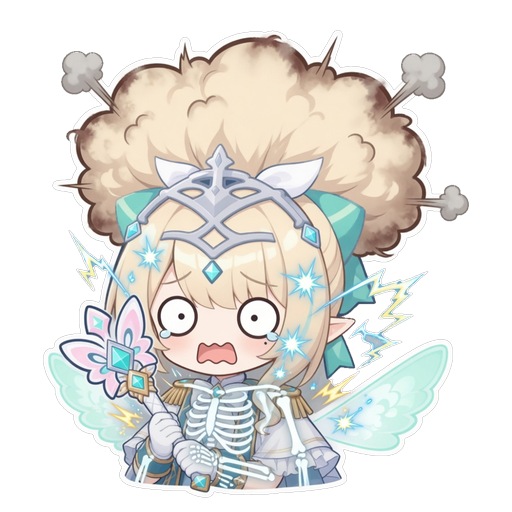
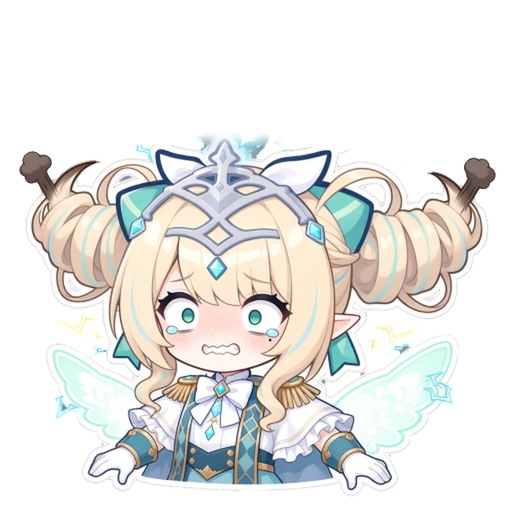
Add spicy / on-fire faces, redraw the shock sprite, stop squashing plugin sprites
- New faces spicy (mouth on fire) and fire (bursts into flames). Spicy food now
  shows the mouth fire first and goes back to the yuck face after the gulp of
  water; spicy again within 90 s (SPICY_AGAIN) sets her on fire. Both fall back
  to the yuck face without art; the codex grows to 33 cells.
- pet.fit_sprite(pm): plugin sprites (vomit, the electric gum shock) were full
  512x512 images stretched to the cropped 484x368 frame, so they showed up
  squashed to ~70% height. They are now cropped to the shared box first.
- dlc/interactions/shocked.png redrawn (Grok v17, extra flying tiara and smoke
  removed) with an updated prompt in PROMPTS_shock.md.

Claude-Session: https://claude.ai/code/session_01Jzc6FuEEpiHSeSBqZ5Z8rB

diff --git a/main.py b/main.py
@@ -48,7 +48,10 @@ PEEK_EXTRA = {"peek_happy": "peek_awake", "peek_surprised": "peek_awake"}
 FACES = {"pout": "shy", "smug": "content", "hungry": "idle", "queasy": "dizzy",
          "sulk": "angry", "held": "surprised", "yuck": "angry", "wet": "angry",
          "cold": "pout",              # cold 只给插件用(expr), 没图时借委屈那张
-         "frozen": "wet"}            # frozen 暴雪浇水冻住; 没图时借湿漉漉(再借 angry)
+         "frozen": "wet",            # frozen 暴雪浇水冻住; 没图时借湿漉漉(再借 angry)
+         "spicy": "yuck",            # 辣到喷火; 没图时借皱脸
+         "fire": "spicy"}            # 整个人燃起来(刚吃完辣的又来一口; 插件: 火炉烫到等); 没图时借喷火那张
+SPICY_AGAIN = 90.0              # 吃完辣的这么多秒内又吃辣的 -> 不是喷火, 是整个人燃起来
 HUNGRY_FACE = 25                # 饱腹低于这个, 站着发呆时换成「饿了」那张
 FEED_REACTIONS = ("fav", "like", "ok", "dislike", "weird")     # 插件接管吃的反应时, feed 事件里能记成的档
 
@@ -270,6 +273,10 @@ def _resolve_fallbacks(frames, table):
                 frames[s] = frames[fb]
 
 
+SPRITE_BOX = None               # 所有立绘共用的裁剪框(load_frames 算出来); 插件自带的整张立绘用 pet.fit_sprite() 按它裁
+SPRITE_SIZE = None
+
+
 def load_frames():
     """返回 (frames, real): real = 真正有图(非回退)的状态集合"""
     imgs = {}
@@ -289,6 +296,8 @@ def load_frames():
     for img in imgs.values():
         r = alpha_bbox(img)
         box = r if box is None else box.united(r)
+    global SPRITE_BOX, SPRITE_SIZE
+    SPRITE_BOX, SPRITE_SIZE = QRect(box), imgs["idle"].size()
     frames = {s: QPixmap.fromImage(img.copy(box)) for s, img in imgs.items()}
     real = set(frames)
     _resolve_fallbacks(frames, {**EXTRA_STATES, **FACES})
@@ -618,6 +627,7 @@ class PetWindow(QWidget):
         # 被丢 / 闹别扭 / 转圈
         self._throws = deque(maxlen=12)
         self._feeds = deque(maxlen=16); self._dislikes = deque(maxlen=8); self._extra_stomach_until = 0.0
+        self._spicy_at = -1e9          # 上次吃辣的(monotonic): SPICY_AGAIN 秒内再吃 -> 燃起来
         self._throw = None              # 正在飞的这一丢: dict(speed, hard, level, bonks, t_bonk)
         self._sulk_until = 0.0; self._sulk_calm = 0; self._sulk_click_t = 0.0; self._sulk_fx = 0.0; self._sulk_poke_say = 0.0
         self._spin_meter = 0.0; self._spin_stage = 0; self._spin_t = now
@@ -740,6 +750,13 @@ class PetWindow(QWidget):
     def codex(self):
         """图鉴里列哪几格: 原来的都列; 只换脸的表情(FACES)要 assets 里真有图才列"""
         return [e for e in C.CODEX if e[0] not in FACES or e[0] in self.real_frames]
+
+    def fit_sprite(self, pm):
+        """插件自带的整张立绘(和 assets 里的一样大、同一套构图, 如 512×512) -> 按所有立绘共用的裁剪框裁好。
+        裁好再缩放到当前立绘的大小才不会被压扁; 尺寸不一样的图原样返回"""
+        if SPRITE_BOX is None or pm is None or pm.isNull() or pm.size() != SPRITE_SIZE:
+            return pm
+        return pm.copy(SPRITE_BOX)
 
     # ----- 菜单 / 面板 -----
     def _build_tray_menu(self):
@@ -1332,14 +1349,16 @@ class PetWindow(QWidget):
             self.burst("note", 1)
             self.say(self.pick_line(f["lines"] if random.random() < 0.75 else C.FOOD_OK_TEXTS), force=True)
             self.gain(2, "feed", quiet=True)
-        elif trait == "spicy":                              # 辣!
-            self.set_state("angry", 2.8, expr="yuck")
-            self.burst("steam", 9, at=hp + QPointF(0, -10), bias=(0, 0))
-            self.burst("emoji", 3, at=m, text="🔥")
+        elif trait == "spicy":                              # 辣! 刚吃过辣的又来一口 -> 整个人燃起来
+            again = now - self._spicy_at < SPICY_AGAIN
+            self._spicy_at = now
+            self.set_state("angry", 2.8, expr="fire" if again else "spicy")
+            self.burst("steam", 12 if again else 9, at=hp + QPointF(0, -10), bias=(0, 0))
+            self.burst("emoji", 5 if again else 3, at=m, text="🔥")
             self.burst("sweat", 4)
             self.sfx.play("huh")
-            self.say(self.pick_line(f["lines"]), force=True, tone="alert")
-            QTimer.singleShot(1900, lambda: (self.burst("drop", 3), self.burst("emoji", 1, text="💧"),
+            self.say(self.pick_line(C.FOOD_SPICY_AGAIN_TEXTS if again else f["lines"]), force=True, tone="alert")
+            QTimer.singleShot(1900, lambda: (self._spicy_cooled(), self.burst("drop", 3), self.burst("emoji", 1, text="💧"),
                                              self.say(self.pick_line(C.FOOD_SPICY_WATER_TEXTS), force=True,
                                                       tone="alert")))
             QTimer.singleShot(4400, lambda: self._food_say(C.FOOD_SPICY_AFTER_TEXTS))
@@ -1384,6 +1403,12 @@ class PetWindow(QWidget):
         if hearts:
             self.burst("heart", hearts)
         self.say(self.pick_line(pool), force=True, duration=3.4, tone=tone)
+
+    def _spicy_cooled(self):
+        """吃辣 1.9 秒后灌了口水: 火下去了, 喷火 / 燃起来的脸换回皱脸(这段反应已经被别的打断就不管)"""
+        if self.state == "angry" and self._expr_state == "angry" and self._expr in ("spicy", "fire"):
+            self._expr = "yuck"
+            self.update()
 
     def _note_dislike(self, now, quiet_until=3.0):
         """短时间内连喂讨厌的: 第 2 次扣一点好感并警告, 第 3 次闹别扭"""

diff --git a/food_fx.py b/food_fx.py
@@ -472,7 +472,8 @@ def _step_shock(self, t, dt):
 
 class _ShockFlash:
     """shock 期间临时挂到 pet._ix 的画图钩子: 专用立绘(有图时) + 白/黄闪烁 + 水平抖。
-    立绘: <桌宠目录>/dlc/interactions/shocked.png, 备用 dlc/foods/sprites/shocked.png (512x512, 与其他立绘对齐); 每次触发重新检查, 缺图用当前脸。"""
+    立绘: <桌宠目录>/dlc/interactions/shocked.png, 备用 dlc/foods/sprites/shocked.png (512x512, 与其他立绘对齐, 内容别超出共用裁剪框);
+    每次触发重新检查, 缺图用当前脸。"""
     def __init__(self, fx):
         self.fx = fx
         self._cache = {}
@@ -484,7 +485,7 @@ class _ShockFlash:
                 if f.is_file():
                     pm = QPixmap(str(f))
                     if not pm.isNull():
-                        self._img = pm
+                        self._img = fx.pet.fit_sprite(pm)     # 先按立绘共用的框裁, 不然缩放时会被压扁
                         break
         except Exception:
             self._img = None

diff --git a/dlc/interactions/vomit.py b/dlc/interactions/vomit.py
@@ -42,7 +42,8 @@ class VomitFx:
         for n in ("vomit_pre", "vomit"):
             f = HERE / (n + ".png")
             pm = QPixmap(str(f)) if f.is_file() else QPixmap()
-            self._img[n] = None if pm.isNull() else pm
+            fit = getattr(self.pet, "fit_sprite", None)               # 先按立绘共用的框裁(旧本体没有就照旧), 不然缩放时会被压扁
+            self._img[n] = None if pm.isNull() else (fit(pm) if fit else pm)
 
     def _sized(self, name, ref):
         src = self._img.get(name)

diff --git a/dlc/interactions/PROMPTS_shock.md b/dlc/interactions/PROMPTS_shock.md
@@ -1,20 +1,26 @@
-# 被电击口香糖电到 立绘提示词（2026-10-14）
+# 被电击口香糖电到 立绘提示词（2026-11-02 重画）
 
-这是提示词，不是成品图，用用户自己的图像工具出图。
-- 原图放 `dlc/interactions/raw/shocked_raw.png`，成品是 `dlc/interactions/shocked.png`。和 vomit 那两张放在一起，因为都是角色的互动立绘，不是食物图标。
-- 规格和 vomit 一样：512×512 RGBA 透明背景，半身像，底边 y≈498，高度约 363px（70%），白色贴纸粗描边 7–9px。
-- 出图用图生图：上传 `assets/dizzy.png` 当参考图（能同时传角色参考的话加上 `assets/idle.png`），重绘强度 0.5–0.65。这张姿势和发型变化比较大，所以强度比 vomit 那两张略高一点。
+这是提示词，不是成品图，用 Grok 出图。
+- 成品是 `dlc/interactions/shocked.png`（和 vomit 那两张放在一起，都是角色的互动立绘，不是食物图标）。电到期间 `food_fx` 用它，外加白 / 黄闪烁和左右抖。
+- 规格和 `assets` 里的立绘一样：512×512 RGBA 透明背景，半身像，底边 y≈497，内容不能超出共用裁剪框 (14,130)–(498,498)。
+  程序会先按这个框裁（`pet.fit_sprite`），再缩放到当前立绘大小；框外的部分直接看不见。
+- 用法和 `docs/PROMPTS_faces.md` 一样：上传参考图 `ref_surprised.png`，先贴那边的「通用前缀」，再接下面的正文。
 
-## 通用前缀
-chibi sticker illustration of the same girl as the reference image, bust shot cropped at the chest, blonde hair with teal streaks, silver tiara with teal forehead gem, two teal ribbon bows and white hairband, pointed elf ears, small tear mole under left eye, white ruffled capelet, gold epaulettes, small mint translucent fairy wings, thick white sticker outline around the whole figure, clean anime cel shading, soft pastel colours, transparent background, nothing on the ground, no text, no watermark
+## 第一版为什么重画（2026-10-14 那张）
+- 头发炸成一大团爆炸头，盖住了蝴蝶结和两边的螺旋卷，人也被挤小了一圈，认不太出是她。
+- X 光骨架占了整个身子，眼睛只剩白眼。闪烁和抖动程序本来就有，图里不用再画。
+- 另外以前程序把整张 512×512 拉伸到裁好的立绘尺寸（484×368），竖着被压到七成，看起来是扁的。已经改成先裁再缩放。
 
-## shocked.png 正文
-comedic cartoon electric shock reaction, her twin drill-curl blonde hair frizzed out and standing straight up and puffed out like a cartoon static explosion, a few slightly singed darker tips with small puffs of grey smoke, eyes wide round and blank white, tiny pupils, mouth open in a stiff zigzag shape, body rigid and stiff, a faint cute cartoon x-ray skeleton outline flashing through her silhouette, small blue and yellow electric sparks and zigzag lightning crackling close around her, funny and cute not scary
+## 正文
+she has just been zapped by an electric shock and is frozen stiff mid-zap: her twin drill curls and bangs frizzed and puffed out with static, a few strands sticking straight out sideways, but the drill-curl shape is still clearly recognisable and no hair rises higher than the top of her ribbon bows; a few hair tips slightly singed darker with two or three tiny puffs of grey smoke; teal eyes wide open with tiny shrunken pupils and a small tear at each corner; teeth clenched in a stiff wavy zigzag grimace; shoulders hunched up and both arms locked rigid, gloved fingers splayed stiff; her tiara knocked slightly crooked with a tiny spark jumping off the forehead gem; small bright blue and yellow zigzag sparks crackling close around her outline. Funny and cute, not hurt. No skeleton, no x-ray, no glowing aura, no blank white eyes.
 
-## 反向提示词
-scary, horror, realistic skeleton, skull close-up, burns, injury, blood, gore, dark creepy, photorealistic, extra characters, full body, legs, text, watermark, background scenery, ground, floor
-
-## 备注
-- 骨骼透视只要一层淡淡的卡通线条，如果出图太像真骨头，就把 "x-ray skeleton" 那一句删掉重出。
-- 头冠和蝴蝶结在炸开的头发里也要保留，这是认出她最关键的地方。
-- 建议出 3–4 张，挑头冠最完整的那一张。
+## 出图结果（2026-11-02）
+- 出了四版（17–20），用的是第 17 版。
+- 「头冠歪了」这句 Grok 会画成两个头冠：一个戴着，另一个飞出去（17、19）或者叠在一起（20）。以后重出时把这句换成
+  `her tiara still sitting on her head, a tiny spark jumping off the forehead gem`。
+- 第 18 版有四只手（两只握着法杖，下面还张着两只），第 20 版也多了手。可以在末尾加一句 `exactly two arms and two hands, not holding the wand`。
+- 第 17 版 Grok 保留了 2 倍构图，原样缩一半，再左移 4px（右边那撮焦毛超出了 498）。接着做了三件事：
+  - 灰烟是独立的小块，删掉。
+  - 头顶上沿（y≈143，蝴蝶结的白描边）以上全删，飞走的那个头冠和两边的火花都在上面。头冠右腿挨着蝴蝶结，那一段删到 y=148。
+  - 头冠尖上的火花留着，在 130–150 之间渐隐。
+- 抠图用的是灰底漫水，螺旋卷圈里那几块灰底没有白描边围着，单独按「颜色是平的灰」挖掉。

diff --git a/docs/接口规范.md b/docs/接口规范.md
@@ -66,6 +66,7 @@
 | `sulking()` / `focusing()` / `sneaking()` / `isVisible()` | 闹别扭 / 专注计时中 / 偷吃中 / 看得见 |
 | `activities()` / `can_auto(what)` | 见第 3、4 节 |
 | `char_w` `char_h` `pad_x` | 立绘尺寸、左右留白(像素) |
+| `fit_sprite(pm)` | 插件自带的整张立绘(和 `assets` 里一样 512×512、同一套构图)按所有立绘共用的裁剪框裁好，返回新的 `QPixmap`；之后再缩放到当前立绘大小才不会被压扁。尺寸不一样的图原样返回。`vomit` 和电击口香糖的立绘都用它 |
 | `head_point()` `mouth_point()` `foot_point()` `anchor_point()` | 屏幕坐标，放粒子/气泡用 |
 | `screen_rect()` | 她所在屏幕的可用区域(扣掉任务栏) |
 | `mood` | 心情(第 2.4 节)：`value`(-100..100) `key`(`great good ok low bad`) `name` `emoji` `frac()` |
@@ -147,17 +148,20 @@
 | `pout` 委屈 | shy | 猜拳输给你(状态还是 angry)、追蝴蝶扑空、心愿没等到 |
 | `smug` 偷笑 | content | 偷吃得手 |
 | `hungry` 饿了 | idle | 饱腹低于 25 时站着发呆(`HUNGRY_FACE`)；张望、专注、散步优先 |
-| `yuck` 皱脸 | angry | 辣的、苦的、蔬菜(状态是 shy)，推开不爱吃的 |
+| `yuck` 皱脸 | angry | 辣的(喷火之后灌了口水)、苦的、蔬菜(状态是 shy)，推开不爱吃的 |
 | `queasy` 难受 | dizzy | 吃了黑暗料理(转吐有插件 `vomit` 自己的立绘) |
 | `sulk` 赌气 | angry | 闹别扭期间的生气 |
 | `held` 被拎起 | surprised | 被拖着、被丢在半空 |
 | `wet` 湿漉漉 | angry | 被浇水后生气、强行浇水、超级生气(插件 `water` 换) |
 | `cold` 好冷 | (借 `pout` 委屈那张) | 只给插件用(`expr()` 换)，比如天气插件的暴雪；本体自己不用 |
+| `frozen` 冻住 | (借 `wet` 湿漉漉那张) | 只给插件用，比如天气插件里暴雪被浇水冻住；本体自己不用 |
+| `spicy` 喷火 | (借 `yuck` 皱脸那张) | 吃辣的(状态是 angry)，1.9 秒后灌了口水就换回皱脸 |
+| `fire` 燃起来 | (借 `spicy` 喷火那张) | 吃完辣的 90 秒内(`SPICY_AGAIN`)又吃辣的，同样 1.9 秒后换回皱脸；插件也能用(火炉烫到、冻住时吃辣的) |
 
 一帧画哪张，按这个顺序定(`stand_key()`)：`set_state(..., expr=)` 指定的(只在那个状态里有效) → 本体按状态判断(上表的 hungry / sulk / held，以及原来的张望、专注) → 插件 `expr()` 最后还能换。
 插件给的名字没有对应的图(连回退都没有)就忽略。探头时不换脸。
 
-- 图鉴：原来那 21 格照旧都列；`FACES` 里的脸要 `assets` 里真有图才列，画到时解锁。格子多了自动压矮一点(5 行能放 30 格)。
+- 图鉴：原来那 21 格照旧都列；`FACES` 里的脸要 `assets` 里真有图才列，画到时解锁。格子多了自动压矮一点，超过 30 格换成 7 列(5 行最多 35 格，现在 33 格)。
 - 外部 DLC 的 `say` 也能要 `pout` / `smug`(`LIVE_SAY_FACES`)，同样要真有图。
 
 ## 3. 活动(`activities()`)
@@ -333,6 +337,15 @@
   生气 / 吃东西 / 幸福 / 害羞(按表情) → 散步 → 饿了 → 看蝴蝶 → 按好感那句。台词表在 `content.py` 的 `STATUS_*`。
 - 新钩子 `state_text()`；`water` 和 `vomit` 实现了它。
 - 新可调参数 `sneak_done_lines` `sneak_caught_lines`；新事件 `sneak_done`。
+
+### 2026-11-02 喷火、燃起来，被电和吐彩虹的立绘不再被压扁
+
+- 新脸 `spicy`(喷火)、`fire`(燃起来)，见第 2.6 节。吃辣的原来借皱脸，现在先喷火，灌了口水再皱脸；刚吃完辣的又来一口就整个人燃起来(台词 `FOOD_SPICY_AGAIN_TEXTS`)。
+  图鉴多两格。私有 DLC 也用：天气(暴雪吃辣喷火；冻住时吃辣燃起来，冰一下子化了)、火炉(烫到)。
+- 新方法 `pet.fit_sprite(pm)`(第 2 节)。插件自带的整张立绘以前直接拉伸到裁好的立绘尺寸(484×368)，竖着被压到七成左右，
+  电击口香糖(`food_fx`)和转吐(`vomit`)的立绘一直是扁的；现在先按共用框裁好再缩放。所以这类立绘的内容也不能超出共用框(14,130)–(498,498)。
+- `dlc/interactions/shocked.png` 重画(提示词见 `dlc/interactions/PROMPTS_shock.md`)：原来那张爆炸头盖住了蝴蝶结和螺旋卷、X 光骨架、白眼，人也小一圈。
+- `assets/spicy.png` `fire.png`：都在共用框里，不会把别的立绘挤小。
 
 ### 2026-11-02 聊天知道得更多
 

diff --git a/docs/PROMPTS_faces.md b/docs/PROMPTS_faces.md
@@ -67,3 +67,20 @@ she is freezing in a blizzard: shoulders hunched up, both gloved hands held toge
 she has just been soaked with water in a blizzard and frozen solid: a clear crystalline ice shell and frost coating her hair, face, capelet, gloves and wand, with a few sharp ice facets and tiny icicles hanging from her drill curls, tiara and ribbons; blonde hair a shade darker as if wet under the ice, water droplets turned into frozen beads; eyes wide open and a little teary, eyebrows raised then drooping, mouth a small aggrieved open "eh?!" pout, cheeks flushed pink from the cold; body stiff and slightly hunched as if mid-shiver locked in place, a few short freeze-crack motion lines and tiny ice crystal sparkles close around her (stay inside the sticker bounds). No scarf. Still a bust shot cropped flat at the bottom. Cute and pitiful, not scary, not covered so thick that the tiara, teal bows, tear mole or mint wings disappear.
 
 备注：头冠、青蝴蝶结、泪痣、薄荷翅在冰壳里也必须看得清。冰是透明/半透明晶体，不要整块不透明白冰把脸糊死。地上不要积水、不要雪堆、不要全画面暴风雪背景。建议出 3–4 版，挑冰壳薄、五官还能认、构图和 idle/wet 同框的那张；Grok 改图时原样缩一半对齐。
+
+## spicy.png 喷火（参考图 `ref_angry.png`）
+用在吃辣的时候（状态是 angry），1.9 秒后灌了口水就换回皱脸。暴雪天吃辣的（天气 DLC）也用这张。
+
+she has just eaten something extremely spicy and her mouth is on fire: whole face flushed bright red right up to the tips of her elf ears, eyes squeezed shut into > < shapes with big comic tears at the corners, mouth wide open with her tongue out and a small cartoon flame puffing out of it, both gloved hands flapping in front of her mouth to fan it, two or three sweat drops on her forehead, drill curls bouncing up slightly. Funny and cute, not hurt. Keep the flame small and close to her mouth; no steam clouds above her head and no fire anywhere else.
+
+备注：头顶不要画蒸汽，程序会自己喷蒸汽、🔥 和汗珠粒子，画在头顶会把共用裁剪框撑大。出了四版（13–16），用的是第 13 版：
+脸红但没红过头，额前宝石还是青色。第 15、16 版整张脸红透了，第 15 版连宝石都变红了。Grok 保留了 2 倍构图，原样缩一半就对齐了。
+
+## fire.png 燃起来（参考图 `ref_surprised.png`）
+用在刚吃完辣的又吃辣的（本体），以及插件：火炉烫到、冻成冰块时吃辣的（天气 DLC）。
+
+she has burst into comic cartoon flames: a ring of bright orange and yellow cartoon fire blazing up all around her body behind her, cheeks flushed red, teary sparkling teal eyes, mouth wide open in a flustered wail, one small sweat drop, gloved hands clutching her wand. Funny and cute, not hurt, she is not burnt. The flames stay close around her and must not rise higher than the top of her ribbon bows.
+
+备注：现在这张是用户自己出的，火焰撑满了整张图（顶到 y≈12）。处理办法：按头冠、眼睛和原立绘对齐，缩到 0.44 倍（Grok 这次把人画大了，
+没保留 2 倍构图）；人物上沿（每列最上面的深色描边或银色头冠）以下全留，上沿以上的火焰从 y=215 往上渐隐，到 y=131 清空。
+以后重出的话，提示词里最后那句「火不要高过蝴蝶结」最要紧。
